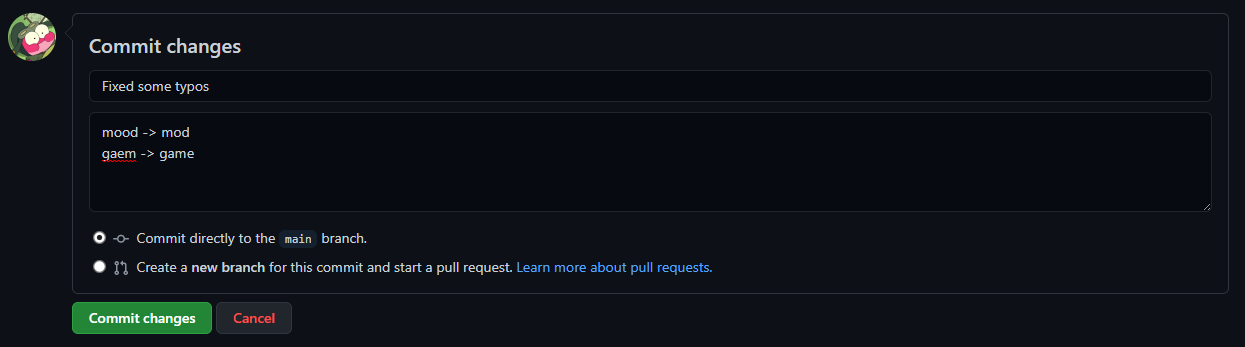
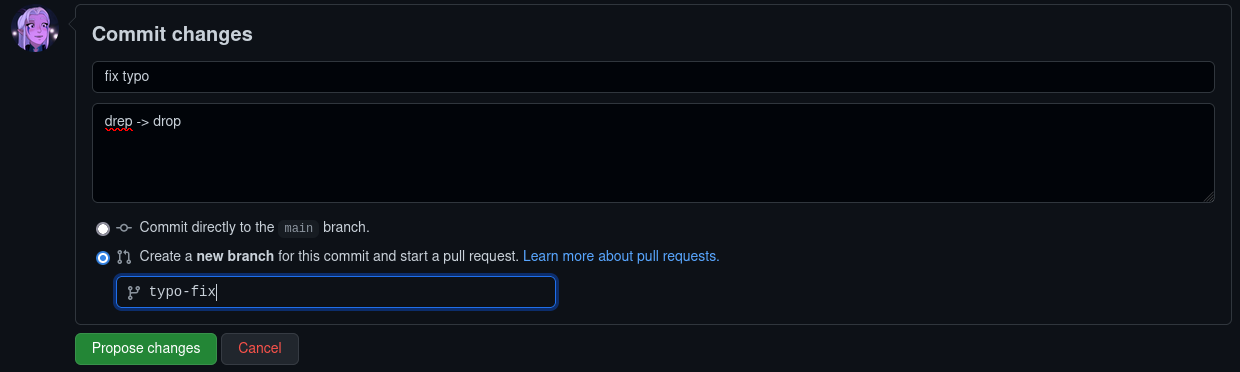
corrections to contributing guide

diff --git a/.github/contributing/contributing.md b/.github/contributing/contributing.md
@@ -32,11 +32,15 @@ So taking that into account, we get to the following file on the repo:
 
 Now that you know where the file is, open it and click on the little pencil icon in the top right of the document box. Now you can edit the page however you like, and you can click the preview button at the top to see how it looks. Keep in mind that some parts of the document are not rendered correctly in this view since it is actually [DocFX Flavored Markdown](https://dotnet.github.io/docfx/spec/docfx_flavored_markdown.html).
 
-Once you are done editing the page, scroll all the way to the bottom and write a descriptive message about what you did and hit the `Commit changes` button. Make sure that the "Commit directly to the `main` branch" option is selected.
+Once you are done editing the page, scroll all the way to the bottom and write a descriptive message about what you did and hit the `Commit changes` button. Select "Create a new branch for this commit and start a pull request." Then, give your branch a simple name. Often times, this will overlap with your commit name.
 
 ![commit dialogue](images/commit_dialogue.png)
 
-Once you are done changing files, head on over to the main page of your repo and click on the "Pull Requests" tab. This will let you create a new pull request to site, meaning a team member will take a look at your changes, suggest things, or modify it to comply, and then be added to the site. Fill in some information about what you did, and send it off for review.
+Press the "Propose changes" button. This will open the pull request page, which allows you to describe your changes in further and prettier detail. It should be obvious by your pull request title and description what you have changed.
+
+![pull request page](images/pull_request.png)
+
+Once you are ready to submit the request, press the "Create pull request" button. A team member will take a look at your changes, suggest things, or modify it to comply, and then be added to the site.
 
 You can also read [this official Github page](https://docs.github.com/en/github/collaborating-with-pull-requests/proposing-changes-to-your-work-with-pull-requests/creating-a-pull-request) to find out how to submit your changes.
 
@@ -58,49 +62,7 @@ Congrats! You can now start contributing to new articles on the site. Make sure 
 
 ### Building the site for testing
 
-In VSCode, hit the `ctrl + shift + b` buttons. A dropdown will appear at the top of your screen. Asking you for a build configuration.
-
-![build 1](images/vscode_build_1.png)
-
-Then click on the "Create task.json file from template".
-
-![build 2](images/vscode_build_2.png)
-
-Finally, click "Others".
-
-![build 3](images/vscode_build_3.png)
-
-This will create a file called `tasks.json` in your `.vscode` folder in your copy of the repo.
-
-Replace the contents with the following code:
-
-```json
-{
-    "version": "2.0.0",
-    "tasks": [
-        {
-            "label": "Build site",
-            "type": "shell",
-            "group": {
-                "kind": "build",
-                "isDefault": true
-            },
-            "options": {
-                "cwd": "docfx/"
-            },
-            "windows": {
-                "command": "serve.bat"
-            },
-            "linux": {
-                "command": "./serve.sh"
-            },
-            "problemMatcher": []
-        }
-    ]
-}
-```
-
-Now, when you press `ctrl + shift + b` you should have the option to build the site or set the default build task.
+In VSCode, hit the `ctrl + shift + b` buttons. You should have the option to build the site or set the default build task.
 
 Running it will make the terminal appear at the bottom of the screen, showing you if any errors occurred (broken links in orange, build failures in red). If the build failed because of a port already in use, just run it again.
 
